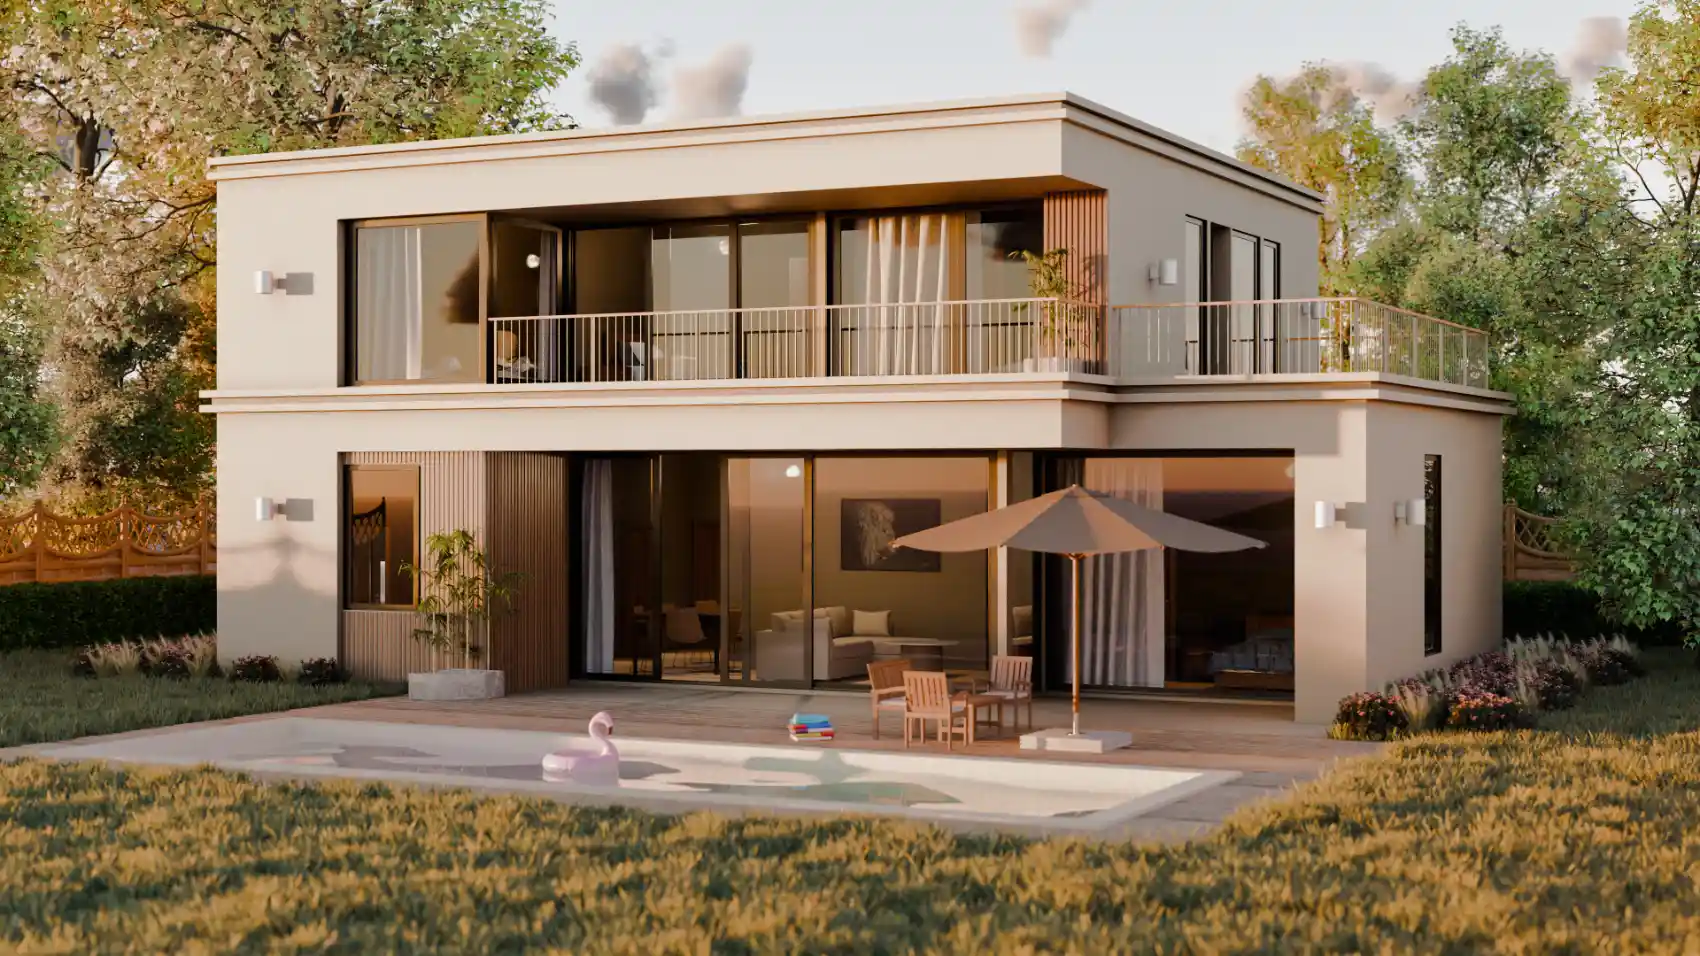
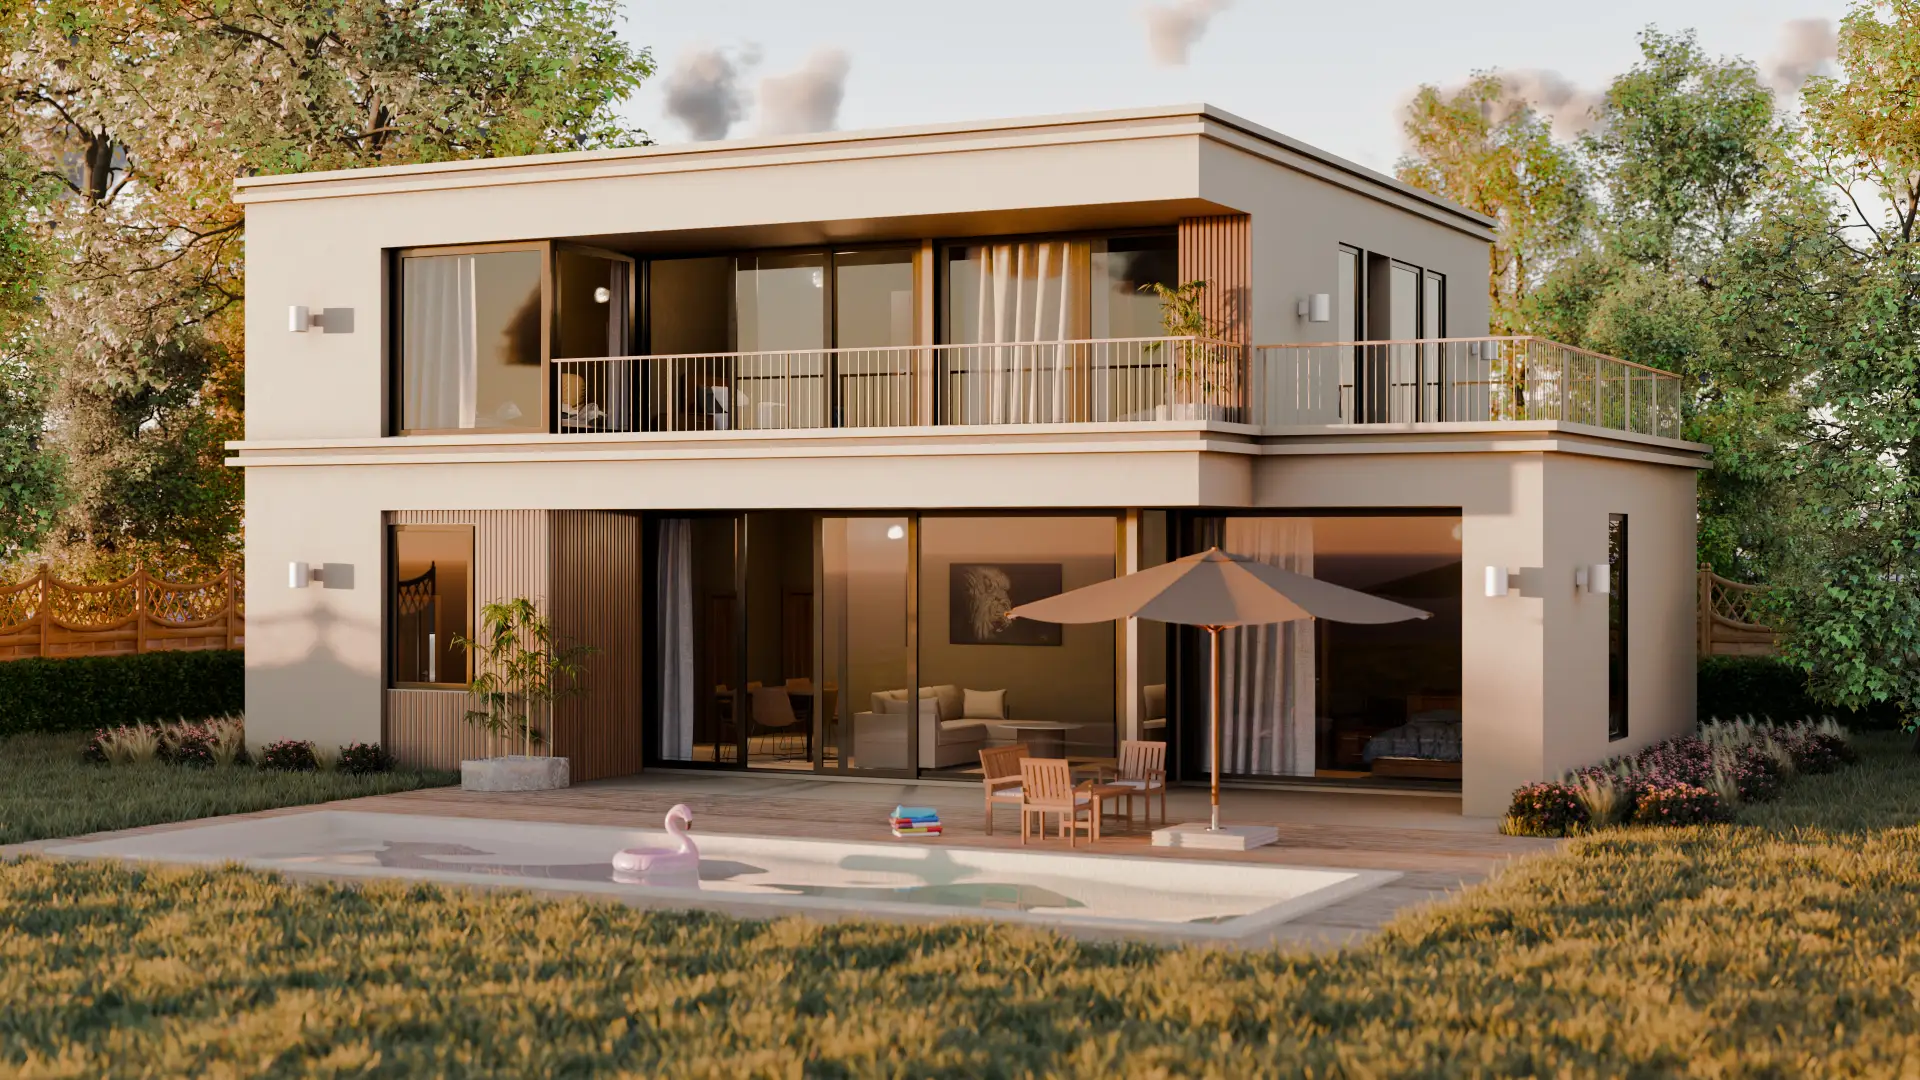
ss
ss

diff --git a/app/project/[id]/page.tsx b/app/project/[id]/page.tsx
@@ -7,8 +7,23 @@ import { NoiseOverlay } from "@/components/noise-overlay"
 import { ArrowLeft, Play, X } from "lucide-react"
 
 const projects = [
-    {
+      {
     id: "1",
+    thumbnail: "/images/Project_Images/exteriornight1.webp",
+    thumbnail_main: "/images/Project_Images/exteriorday1.webp",
+    title: "Modern House Exterior - ArchViz",
+    subtitle: "Personal Project",
+    description: "A modern house exterior visualized in Blender, featuring clean architecture, large glass openings, and a warm, natural material palette. The scene focuses on realistic lighting and atmosphere, capturing the space in both daytime and nighttime conditions to highlight mood and detail.",
+    tools: ["Blender", "Affinity Photo"],
+    year: "2026",
+    type: "Exterior Architectural Visualization",
+    images: [
+      { type: "image", label: "Render 1", image: "/images/Project_Images/exteriorday1.webp" },
+      { type: "image", label: "Render 2", image: "/images/Project_Images/exteriornight1.webp" },
+      ]
+  },
+    {
+    id: "2",
     thumbnail: "/images/Project_Images/bedroom2.webp",
     thumbnail_main: "/images/Project_Images/bedroom2.webp",
     title: "Mediterranean Stone Bedroom - ArchViz",
@@ -16,13 +31,13 @@ const projects = [
     description: "Warm Mediterranean-inspired bedroom featuring natural stone walls, soft lighting, and minimal design. The scene was modeled and rendered in Blender with a focus on realistic materials, lighting, and real-world scale to create a calm and cozy architectural space.",
     tools: ["Blender", "Affinity Photo"],
     year: "2026",
-    type: "Architectural Visualization",
+    type: "Interior Architectural Visualization",
     images: [
       { type: "image", label: "Render 1", image: "/images/Project_Images/bedroom2.webp" },
       ]
   },
     {
-    id: "2",
+    id: "3",
     thumbnail: "/images/Project_Images/bedroom1.webp",
     thumbnail_main: "/images/Project_Images/living1.webp",
     title: "Contemporary Apartment - ArchViz",
@@ -30,7 +45,7 @@ const projects = [
     description: "This project was created using blueprints and CAD files, with every object modeled and scaled according to real-world references. The main focus of the project was achieving a realistic and accurate architectural visualization.",
     tools: ["Blender", "Affinity Photo"],
     year: "2026",
-    type: "Architectural Visualization",
+    type: "Interior Architectural Visualization",
     images: [
       { type: "image", label: "Render 1", image: "/images/Project_Images/living1.webp" },
       { type: "image", label: "Render 2", image: "/images/Project_Images/bedroom1.webp"},
@@ -38,7 +53,7 @@ const projects = [
        ]
   },
   {
-    id: "3",
+    id: "4",
     thumbnail: "/images/Project_Images/purple3.webp",
     thumbnail_main: "/images/Project_Images/purple3.webp",
     title: "Julietta H6",
@@ -61,7 +76,7 @@ const projects = [
     ]
   },
   {
-    id: "4",
+    id: "5",
     thumbnail: "/images/Project_Images/steering1.webp",
     thumbnail_main: "/images/Project_Images/steering1.webp",
     title: "R8 Steering Wheel",
@@ -78,7 +93,7 @@ const projects = [
     ]
   },
   {
-    id: "5",
+    id: "6",
     thumbnail: "/images/Project_Images/nespresso1.webp",
     thumbnail_main: "/images/Project_Images/nespresso1.webp",
     title: "Nespresso Vertuo Blue",
@@ -94,7 +109,7 @@ const projects = [
     ]
   },
   {
-    id: "6",
+    id: "7",
     thumbnail: "/images/Project_Images/replica2.webp",
     thumbnail_main: "/images/Project_Images/replica1.webp",
     title: "Maison Margiela - Replica Perfume",
@@ -110,7 +125,7 @@ const projects = [
     ]
   },
   {
-    id: "7",
+    id: "8",
     thumbnail: "/images/Project_Images/VerticalShot011.webp",
     thumbnail_main: "/images/Project_Images/VerticalShot011.webp",
     title: "Nespresso Vertuo 6 Colors",
@@ -127,7 +142,7 @@ const projects = [
     ]
   },
   {
-    id: "8",
+    id: "9",
     thumbnail: "/images/Project_Images/oceandrive2.webp",
     thumbnail_main: "/images/Project_Images/oceandrive1.webp",
     title: "Ocean Drive - Miami Street Scene",

diff --git a/app/page.tsx b/app/page.tsx
@@ -12,28 +12,38 @@ export default function Portfolio() {
   }, [])
 
   const projects = [
-          {
+            {
       id: 1,
+      thumbnail: "/images/Project_Images/exteriornight1.webp",
+      title: "Modern House Exterior - ArchViz",
+      subtitle: "Personal Project",
+      description: "A modern house exterior visualized in Blender, featuring clean architecture, large glass openings, and a warm, natural material palette. The scene focuses on realistic lighting and atmosphere, capturing the space in both daytime and nighttime conditions to highlight mood and detail.",
+      tools: ["Blender","Affinity Photo"],
+      year: "2026",
+      type: "Exterior Architectural Visualization"
+    },
+          {
+      id: 2,
       thumbnail: "/images/Project_Images/bedroom2.webp",
       title: "Mediterranean Stone Bedroom - ArchViz",
       subtitle: "Personal Project",
       description: "Warm Mediterranean-inspired bedroom featuring natural stone walls, soft lighting, and minimal design. The scene was modeled and rendered in Blender with a focus on realistic materials, lighting, and real-world scale to create a calm and cozy architectural space.",
       tools: ["Blender","Affinity Photo"],
       year: "2026",
-      type: "Architectural Visualization"
+      type: "Interior Architectural Visualization"
     },
       {
-      id: 2,
+      id: 3,
       thumbnail: "/images/Project_Images/living1.webp",
       title: "Contemporary Apartment - ArchViz",
       subtitle: "Personal Project",
       description: "This project was created using blueprints and CAD files, with every object modeled and scaled according to real-world references. The main focus of the project was achieving a realistic and accurate architectural visualization.",
       tools: ["Blender","Affinity Photo"],
       year: "2026",
-      type: "Architectural Visualization"
+      type: "Interior Architectural Visualization"
     },
     {
-      id: 3,
+      id: 4,
       thumbnail: "/images/Project_Images/purple3.webp",
       title: "Julietta H6",
       subtitle: "Personal Project",
@@ -43,7 +53,7 @@ export default function Portfolio() {
       type: "Automotive"
     },
     {
-      id: 4,
+      id: 5,
       thumbnail: "/images/Project_Images/steering1.webp",
       title: "R8 Steering Wheel",
       subtitle: "Personal Project",
@@ -53,7 +63,7 @@ export default function Portfolio() {
       type: "Automotive Interior Part / Product Visualization",
     },
     {
-      id: 5,
+      id: 6,
       thumbnail: "/images/Project_Images/nespresso1.webp",
       title: "Nespresso Vertuo Blue",
       subtitle: "Personal Project",
@@ -63,7 +73,7 @@ export default function Portfolio() {
       type: "Product Visualization"
     },
     {
-      id: 6,
+      id: 7,
       thumbnail: "/images/Project_Images/replica1.webp",
       title: "Maison Margiela Replica",
       subtitle: "Premium Watch",
@@ -73,7 +83,7 @@ export default function Portfolio() {
       type: "Product Visualization"
     },
     {
-      id: 7,
+      id: 8,
       thumbnail: "/images/Project_Images/VerticalShot011.webp",
       title: "Nespresso Vertuo 6 Colors",
       subtitle: "Personal Project",
@@ -83,7 +93,7 @@ export default function Portfolio() {
       type: "Creature Design"
     },
     {
-      id: 8,
+      id: 9,
       thumbnail: "/images/Project_Images/oceandrive1.webp",
       title: "Ocean Drive - Miami Street Scene",
       subtitle: "Personal Project",
